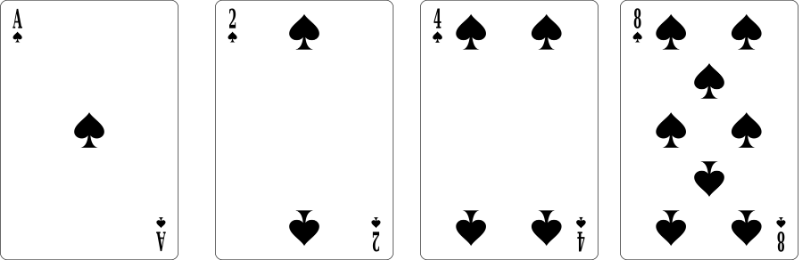
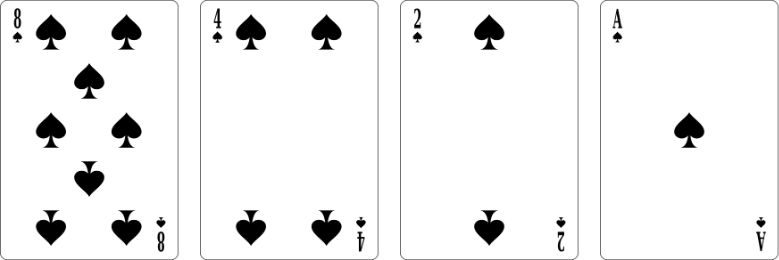
modif

diff --git a/première/Représentation_des_nombres_en_machine/Activité_découverte_du_binaire.md b/première/Représentation_des_nombres_en_machine/Activité_découverte_du_binaire.md
@@ -14,11 +14,11 @@ L'objectif du jeu est de découvrir le langage binaire et de déterminer les alg
 
 ## II. Matériel
 
-Vous disposez chacun de quatre cartes (l'As, le deux, le quatre et le huit) d'un jeu de cinquante-quatre cartes, d'une feuille et d'un crayon.
+Vous disposez chacun d'un jeu de quatre cartes (l'As, le deux, le quatre et le huit), d'une feuille et d'un crayon.
 
 ## III. Installation
 
-Placez les cartes dans l'ordre croissant face visible comme ceci :
+Placez les cartes dans l'ordre décroissant face visible comme ceci :
 
 ![](./img/cartes.png)
 
@@ -30,3 +30,65 @@ Lorsque la carte est face visible, elle vaut $1$.
 
 Lorsque la carte est face cachée, elle vaut $0$.
 
+## V. Questions
+
+Par groupe de deux, répondre aux questions suivantes sur votre feuille :
+
+1. Représentation décimale à représentation binaire :
+
+a) Retourner des cartes pour que la somme des points de toute les cartes face visible fasse $9$.
+
+b) Inscrire sur la feuille la suite de $1$ et de $0$ ainsi obtenue.
+
+c) En déduire la représentation binaire de $9$.
+
+d) Répéter le procédé pour $3$, $12$ et $13$.
+
+e) Existe-il plusieurs représentations binaires pour un même nombre ?
+
+f) Quel est le plus grand nombre que l'on peut obtenir avec quatre cartes ?
+
+g) Que faudrait-il ajouter sur la table pour dépasser ce nombre ?
+
+h) Quel est le plus petit nombre ?
+
+i) Existe-il un nombre compris entre le plus grand et le plus petit que tu ne puisse pas obtenir ?
+
+j) Trouver les représentations binaires de $1$, $2$, $3$ et $4$ dans l'ordre. Quelle est la méthode permettant d'obtenir la représentation binaire d'un nombre $n+1$ ?
+
+2. Représentation binaire à représentation décimale.
+
+a) Retourner les cartes pour que la suite corresponde à $1010$.
+
+b) Inscrire sur la feuille le nombre décimal ainsi obtenu.
+
+c) En déduire la représentation décimale de $1010$.
+
+d) Répéter le procédé pour $0101$, $1011$, et $1111$.
+
+3. Addition binaire
+
+a) Après avoir combiné votre jeu avec celui de votre partenaire, placez les jeux l'un au dessus de l'autre et inscrire sur votre feuille le résultat (en représentation binaire) de l'addition binaire de $0001$ et $0001$.
+
+b) Vérifier que votre résultat est bien la représentation binaire de $2$.
+
+b) Répéter ce procédé pour :
+
+- $1000 + 0111$
+- $5 + 3$
+- $1001 + 0011$
+- $0101 + 0111$
+
+4. Doubler
+
+a) Trouver la représentation binaire de $3$, puis $6$, puis $12$. Quelle est la méthode pour doubler un nombre en représentation binaire ?
+
+5. Algortihmes
+
+a) Ecrire un algorithme en Français permettant d'obtenir la représentation décimale à partir d'une représentation binaire.
+
+b) Ecrire un algorithme en Français permettant d'obtenir la représentation binaire à partir d'une représentation décimale.
+
+_______________________
+
+[Sommaire](./../README.md)

diff --git a/première/Représentation_des_nombres_en_machine/Représentation_des_entiers_naturels.md b/première/Représentation_des_nombres_en_machine/Représentation_des_entiers_naturels.md
@@ -165,7 +165,7 @@ Ainsi $456_{10} = 111001000_2$ :
 
 ##### Application 4
 
-Trouver la représentation binaire de $891_{10}$.
+Trouver la représentation binaire de $291_{10}$.
 
 ### b) De la base deux vers la base dix
 
